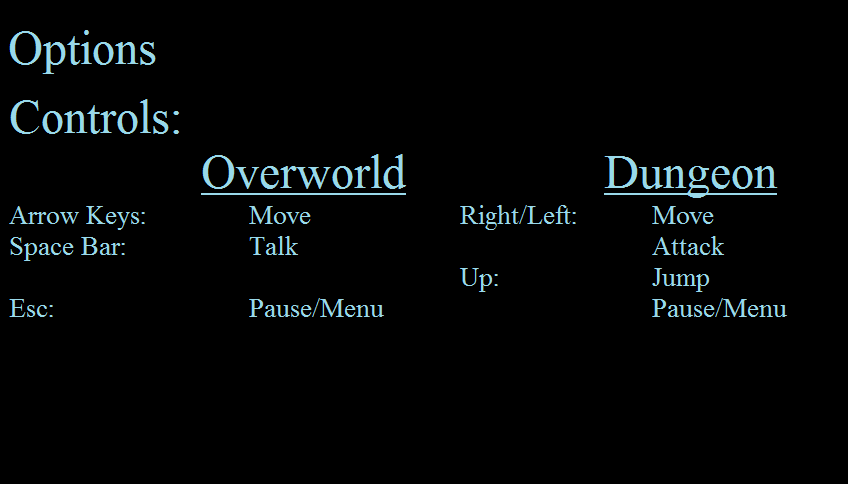
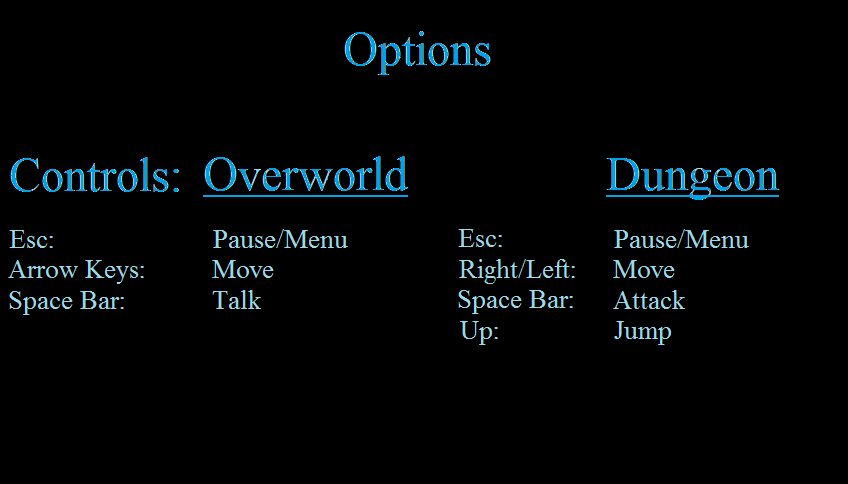
made some changes to the credits and options states, also their screens

diff --git a/LadyJavaOverWorld/LadyJava/LadyJava/LadyJava/GameStates/TitleScreenState.cs b/LadyJavaOverWorld/LadyJava/LadyJava/LadyJava/GameStates/TitleScreenState.cs
@@ -98,7 +98,7 @@ namespace LadyJava
                         selected = State.Quit;
                     else if (selected == State.Quit)
                     {
-                        if (actionText[0].Text == Global.Start)
+                        if(actionText.ContainsKey(State.InitialStory))
                             selected = State.InitialStory;
                         else
                             selected = State.GamePlay;
@@ -116,7 +116,7 @@ namespace LadyJava
                         selected = State.Quit;
                     else if (selected == State.Options)
                     {
-                        if (actionText[0].Text == Global.Start)
+                        if (actionText.ContainsKey(State.InitialStory))
                             selected = State.InitialStory;
                         else
                             selected = State.GamePlay;

diff --git a/LadyJavaOverWorld/LadyJava/LadyJava/LadyJava/GameStates/CreditsState.cs b/LadyJavaOverWorld/LadyJava/LadyJava/LadyJava/GameStates/CreditsState.cs
@@ -46,7 +46,7 @@ namespace LadyJava
 
             normalText = newContent.Load<SpriteFont>("Fonts\\TitleText");
 
-            selectedColor = Color.Red;
+            selectedColor = Color.WhiteSmoke;
             unSelectedColor = Color.MintCream;
             actionText = new Dictionary<State, DisplayText>(); //new DisplayText[State.Quit + 1];
 

diff --git a/LadyJavaOverWorld/LadyJava/LadyJava/LadyJava/GameStates/FinalStoryState.cs b/LadyJavaOverWorld/LadyJava/LadyJava/LadyJava/GameStates/FinalStoryState.cs
@@ -46,7 +46,7 @@ namespace LadyJava
 
             normalText = newContent.Load<SpriteFont>("Fonts\\TitleText");
 
-            selectedColor = Color.Red;
+            selectedColor = Color.SteelBlue;
             unSelectedColor = Color.MintCream;
             actionText = new Dictionary<State, DisplayText>(); //new DisplayText[State.Quit + 1];
 

diff --git a/LadyJavaOverWorld/LadyJava/LadyJava/LadyJava/GameStates/InitialStoryState.cs b/LadyJavaOverWorld/LadyJava/LadyJava/LadyJava/GameStates/InitialStoryState.cs
@@ -46,7 +46,7 @@ namespace LadyJava
 
             normalText = newContent.Load<SpriteFont>("Fonts\\TitleText");
 
-            selectedColor = Color.Red;
+            selectedColor = Color.SteelBlue;
             unSelectedColor = Color.MintCream;
             actionText = new Dictionary<State, DisplayText>(); //new DisplayText[State.Quit + 1];
 

diff --git a/LadyJavaOverWorld/LadyJava/LadyJava/LadyJava/GameStates/OptionsState.cs b/LadyJavaOverWorld/LadyJava/LadyJava/LadyJava/GameStates/OptionsState.cs
@@ -46,7 +46,7 @@ namespace LadyJava
 
             normalText = newContent.Load<SpriteFont>("Fonts\\TitleText");
 
-            selectedColor = Color.Red;
+            selectedColor = Color.SteelBlue;
             unSelectedColor = Color.MintCream;
             actionText = new Dictionary<State, DisplayText>(); //new DisplayText[State.Quit + 1];
 
